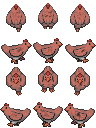
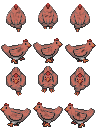
removed border from chicken.png added animations to chicken idle animation movement getting ironed out

diff --git a/flamingbull/lib/player.dart b/flamingbull/lib/player.dart
@@ -1,14 +1,20 @@
 import 'dart:async';
-
 import 'package:flame/components.dart';
 import 'package:flamingbull/constants.dart';
+import 'character_animator.dart';
 
-class Player extends SpriteComponent {
+class Player extends SpriteAnimationComponent {
+  late CharacterAnimator animator;
+  String currentState = 'idleBack';
+  double idleTimer = 0.0;
+  final double idleThreshold = 7.0; // seconds
+  String lastDirection = 'right'; // Track last direction for idle
 
   @override
   FutureOr<void> onLoad() async {
-    sprite = await Sprite.load('chicken.png');
-    size = Vector2.all(600);
+    animator = await CharacterAnimator.load('chicken.png');
+    animation = animator.idleBack();
+    size = Vector2(232, 232);
     position = Vector2(0, -(gameHeight / 2) + (size.y / 2));
     anchor = Anchor.center;
   }
@@ -16,14 +22,35 @@ class Player extends SpriteComponent {
   @override
   void update(double dt) {
     super.update(dt);
-
     double newY = position.y + (dt * 200);
-
     if (newY > (gameHeight / 2) - (size.y / 2)) {
       newY = (gameHeight / 2) - (size.y / 2);
     }
-
     position.y = newY;
+
+    // If not moving left or right, increment idle timer
+    if (currentState == 'moveLeft' || currentState == 'moveRight') {
+      idleTimer += dt;
+      if (idleTimer < idleThreshold) {
+        // Show standing frame for direction
+        if (currentState == 'moveRight' && animation != animator.standRight()) {
+          animation = animator.standRight();
+        } else if (currentState == 'moveLeft' && animation != animator.standLeft()) {
+          animation = animator.standLeft();
+        }
+      } else if (idleTimer >= idleThreshold && currentState != 'idleFront') {
+        animation = animator.idleFront();
+        currentState = 'idleFront';
+      }
+    } else if (currentState == 'idleBack') {
+      idleTimer += dt;
+      if (idleTimer >= idleThreshold && currentState != 'idleFront') {
+        animation = animator.idleFront();
+        currentState = 'idleFront';
+      }
+    } else {
+      idleTimer = 0.0;
+    }
   }
 
   void move(double deltaX) {
@@ -33,8 +60,32 @@ class Player extends SpriteComponent {
     } else if (newX > (gameWidth / 2) - (size.x / 2)) {
       newX = (gameWidth / 2) - (size.x / 2);
     }
+    // Switch animation based on direction
+    if (deltaX > 0) {
+      if (currentState != 'moveRight') {
+        animation = animator.moveRight();
+        currentState = 'moveRight';
+        lastDirection = 'right';
+      }
+      idleTimer = 0.0;
+    } else if (deltaX < 0) {
+      if (currentState != 'moveLeft') {
+        animation = animator.moveLeft();
+        currentState = 'moveLeft';
+        lastDirection = 'left';
+      }
+      idleTimer = 0.0;
+    } else {
+      // No movement, keep standing frame for direction
+      if (lastDirection == 'right' && animation != animator.standRight()) {
+        animation = animator.standRight();
+        currentState = 'moveRight';
+      } else if (lastDirection == 'left' && animation != animator.standLeft()) {
+        animation = animator.standLeft();
+        currentState = 'moveLeft';
+      }
+      // Don't reset idleTimer here; let update handle it
+    }
     position.x = newX;
   }
-
-
 }

diff --git a/flamingbull/lib/constants.dart b/flamingbull/lib/constants.dart
@@ -1,3 +1,6 @@
+
 const gameWidth = 1080.0;
 const gameHeight = 1920.0;
-const moveSpeed = 150.0;
+const moveSpeed = 250.0;
+const double playerSpeed = 200.0;
+const playerSize = (64, 64);
